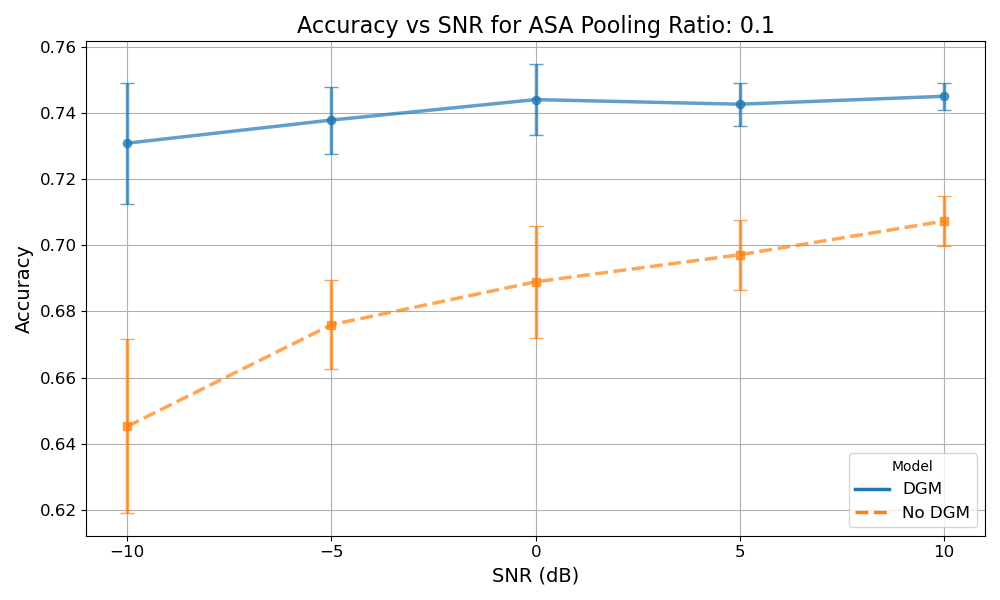
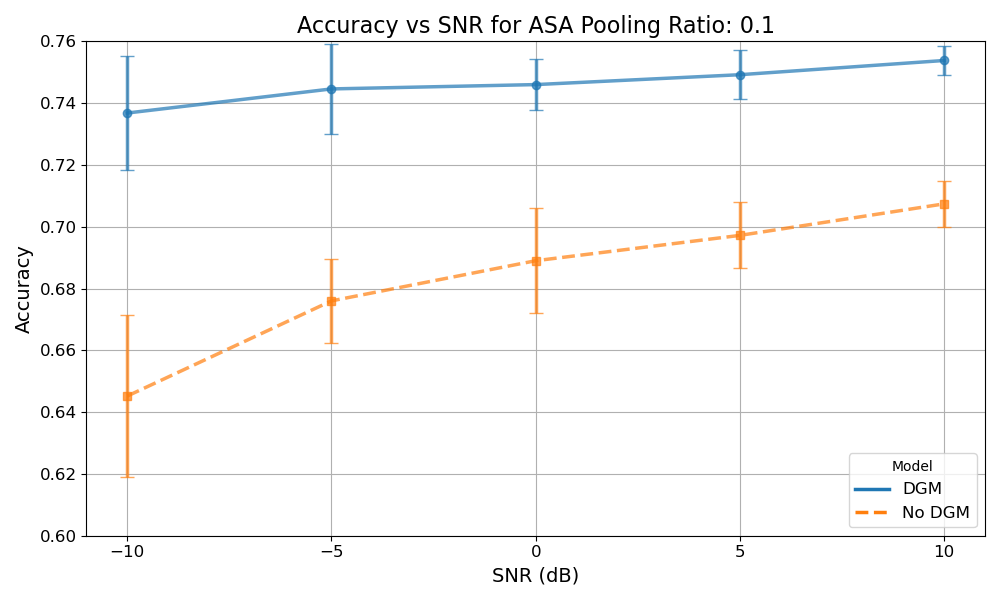
new plos

diff --git a/main.py b/main.py
@@ -397,7 +397,6 @@ def save_results(results, filename):
 
 def load_results(filename):
     if os.path.exists(filename):
-        print('ao')
         with open(filename, 'rb') as f:
             results = pickle.load(f)
         print(f"Results loaded from {filename}")
@@ -610,8 +609,9 @@ def plot_results_pool_per_ratio(results, snr_values, config):
 
 @hydra.main(version_base=None, config_path="conf", config_name="config")
 def plot_existing_res(config: DictConfig):
-    filename = 'results_with_without_dgm/imdb\results.pkl'
+    filename = 'results_with_without_dgm/imdb/results.pkl'
     results = load_results(filename)
+    results['dgm'] = load_results('results.pkl')
     plot_results_pool_per_snr(results, config.exp.pooling_ratios, config)
     plot_results_pool_per_ratio(results, config.exp.snr_values, config)
 
@@ -657,7 +657,10 @@ def compare_with_without_dgm(config: DictConfig):
 
 @hydra.main(version_base=None, config_path="conf", config_name="config")
 def plot_results_per_pooling_method(config):
-    results = load_results('results_with_without_dgm/imdb/results.pkl')
+
+    filename = 'results_with_without_dgm/imdb/results.pkl'  
+    results = load_results(filename)
+    results['dgm'] = load_results('results.pkl')
     # Iterate over each pooling method (ASA, SAG, TopK, etc.)
     for pool_method in config.exp.pool_methods:
         # Iterate over each pooling ratio
@@ -701,7 +704,7 @@ def plot_results_per_pooling_method(config):
                 config.exp.snr_values, accuracies_without_dgm, yerr=std_devs_without_dgm, label=f"No DGM", 
                 capsize=5, marker='s', linestyle='--', linewidth=2.5, alpha=0.7
             )
-            plt.ylim(0.45, 0.76)
+            plt.ylim(0.60, 0.76)
             # Append Line2D object and label for legend
             legend_lines.append(Line2D([0], [0], color=line_with_dgm.get_color(), linestyle='-', linewidth=2.5))
             legend_labels.append(f"DGM")
@@ -745,8 +748,8 @@ if __name__ == "__main__":
     # setup_training()
     
     # compare_poolings_fixed_snr()
-    plot_existing_res()
+    # plot_existing_res()
     # compare_with_without_dgm()
     # compare_with_without_dgm()
-    # plot_results_per_pooling_method()
+    plot_results_per_pooling_method()
     
